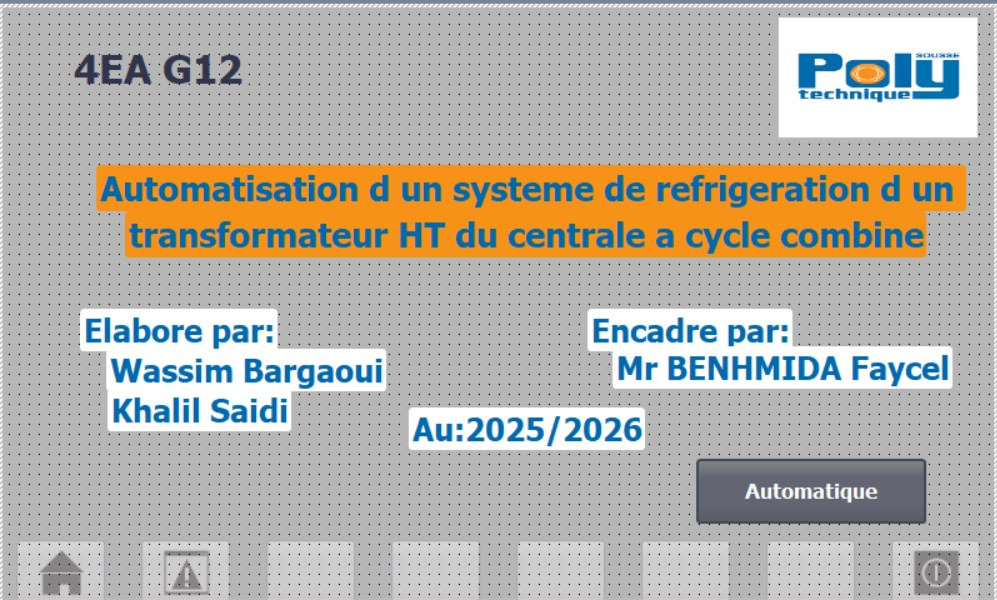
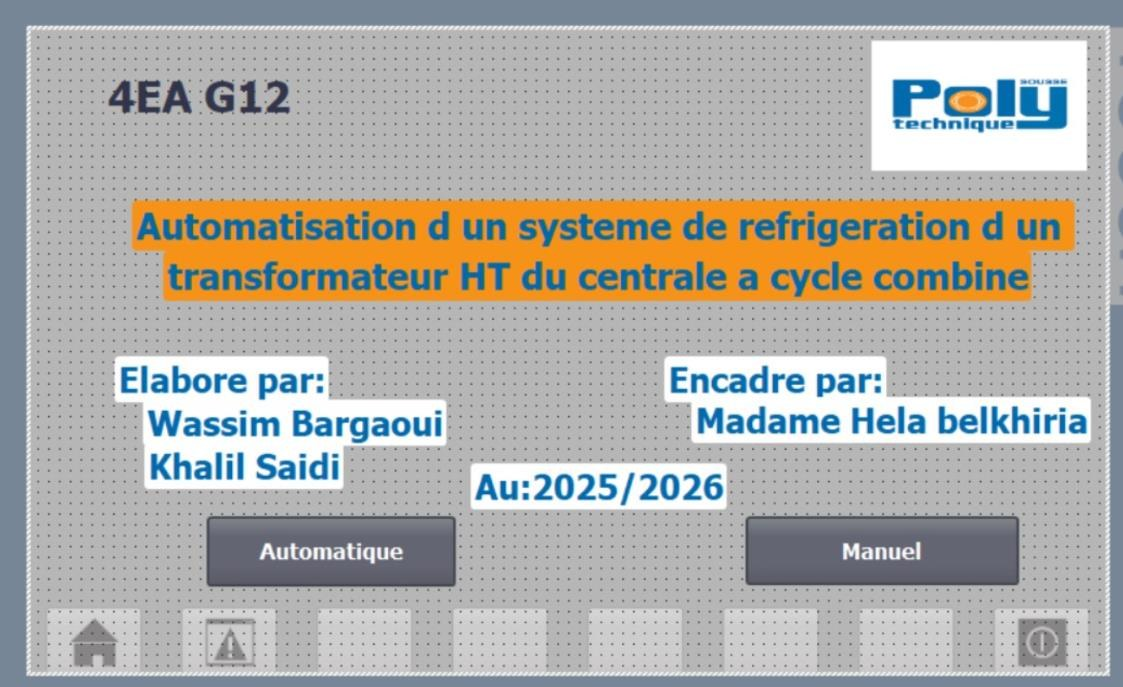
ODAF project: supervisor Mrs. Hela Belkhiria
Claude-Session: https://claude.ai/code/session_01DEoDWbvubgDUHggPZHp2xf

diff --git a/index.html b/index.html
@@ -454,7 +454,7 @@ footer .wrap{display:flex;justify-content:space-between;flex-wrap:wrap;gap:10px}
 
       <article class="proj wide rv">
         <div>
-          <div class="meta"><b>Semester project</b><span>École Polytechnique de Sousse</span><span>2025 – 2026</span><span>with Wassim Bergaoui</span><span>supervised by Mr. Faycel Ben Hmida</span></div>
+          <div class="meta"><b>Semester project</b><span>École Polytechnique de Sousse</span><span>2025 – 2026</span><span>with Wassim Bergaoui</span><span>supervised by Mrs. Hela Belkhiria</span></div>
           <h3>Automation and supervision of an HV transformer cooling system</h3>
           <p>In a combined-cycle power plant, the ODAF cooling (oil directed, air forced) of a power transformer was still driven by hard-wired relay logic: thresholds were hard to change, nothing reached the control room, and operators had to work close to high voltage. We replaced it with a Siemens S7-1200 solution designed in TIA Portal.</p>
           <div class="cols2">
